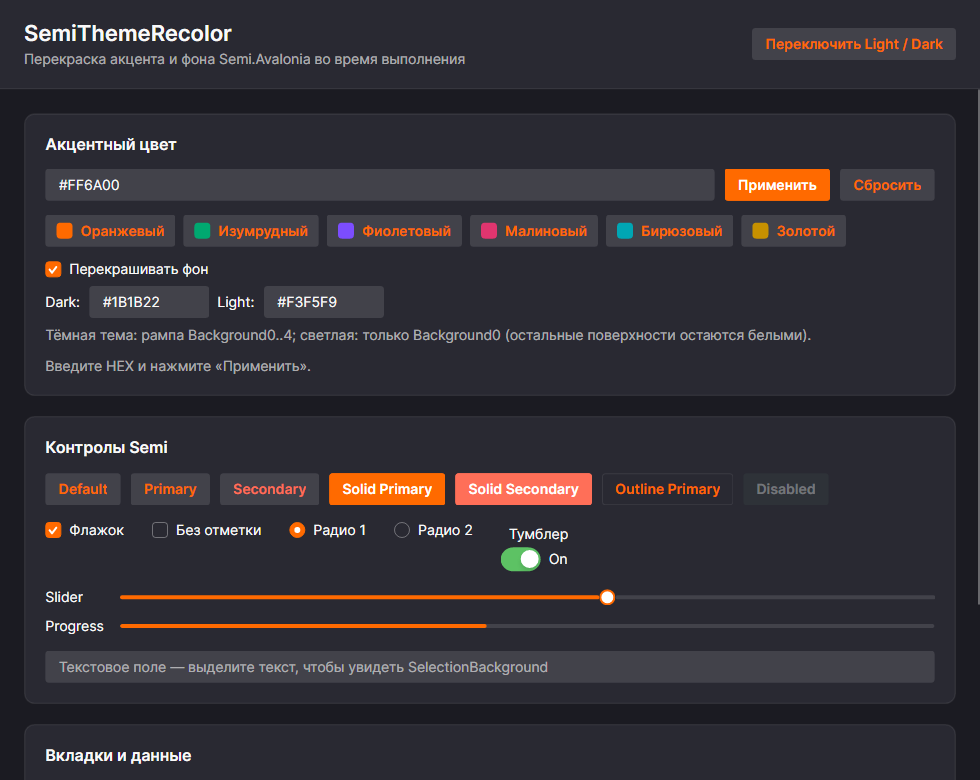
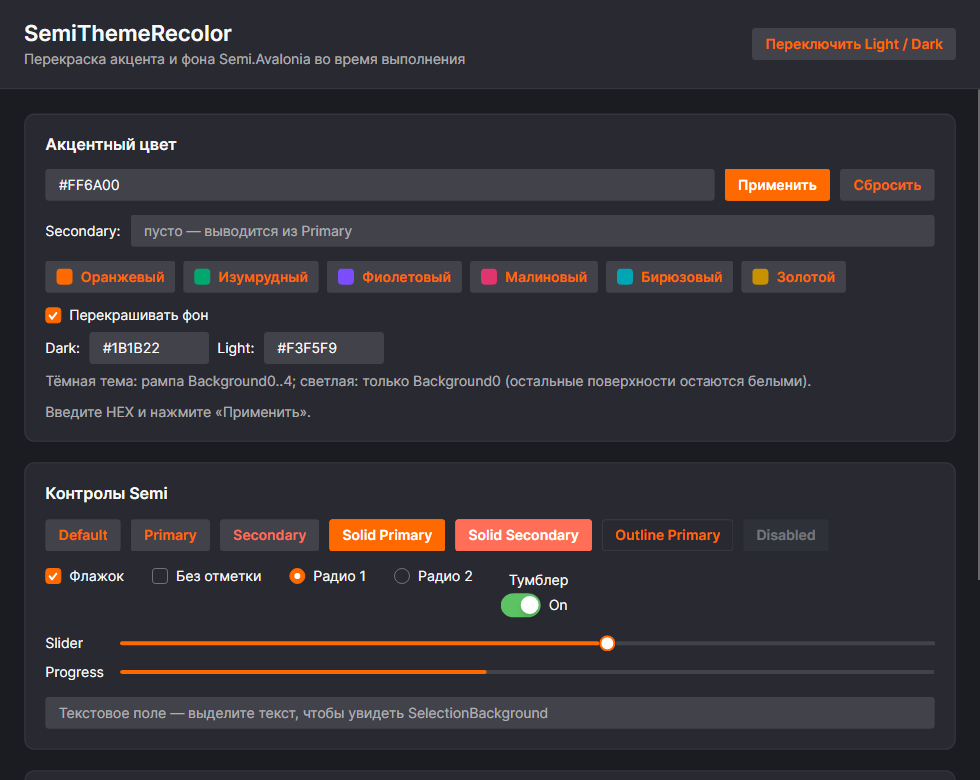
feat: independent SecondaryColor and XamlMcp-instrumented demo

Changed region(s): [[0.0306, 0.2769, 0.9796, 0.9846], [0.7653, 0.6769, 0.8265, 0.7077], [0.7653, 0.6154, 0.8265, 0.6462]]

diff --git a/src/Semi.Avalonia.Recolor/PaletteMapBuilder.cs b/src/Semi.Avalonia.Recolor/PaletteMapBuilder.cs
@@ -50,24 +50,42 @@ internal static class PaletteMapBuilder
         var dark = new Dictionary<Color, Color>();
         var light = new Dictionary<Color, Color>();
 
-        if (darkAccent is { } da)
+        // Secondary (LightBlue) can be set independently of the primary accent.
+        var darkSecondary = secondaryDark
+                            ?? (darkAccent is { } da
+                                ? RampBuilder.DeriveCompanion(da, SemiPalette.DarkBlue[5],
+                                    SemiPalette.DarkLightBlue[5])
+                                : (Color?)null);
+        var lightSecondary = secondaryLight
+                             ?? (lightAccent is { } la
+                                 ? RampBuilder.DeriveCompanion(la, SemiPalette.LightBlue[5],
+                                     SemiPalette.LightLightBlue[5])
+                                 : (Color?)null);
+
+        if (darkAccent is { } darkAccentValue)
         {
-            var secondary = secondaryDark
-                            ?? RampBuilder.DeriveCompanion(da, SemiPalette.DarkBlue[5], SemiPalette.DarkLightBlue[5]);
-            AddRamp(dark, SemiPalette.DarkBlue, RampBuilder.Build(SemiPalette.DarkBlue, da));
-            AddRamp(dark, SemiPalette.DarkLightBlue, RampBuilder.Build(SemiPalette.DarkLightBlue, secondary));
+            AddRamp(dark, SemiPalette.DarkBlue, RampBuilder.Build(SemiPalette.DarkBlue, darkAccentValue));
             dark[SemiPalette.SelectionBlue] =
-                RampBuilder.RecolorHue(SemiPalette.SelectionBlue, Oklch.FromColor(da).H);
+                RampBuilder.RecolorHue(SemiPalette.SelectionBlue, Oklch.FromColor(darkAccentValue).H);
         }
 
-        if (lightAccent is { } la)
+        if (darkSecondary is { } darkSecondaryValue)
         {
-            var secondary = secondaryLight
-                            ?? RampBuilder.DeriveCompanion(la, SemiPalette.LightBlue[5], SemiPalette.LightLightBlue[5]);
-            AddRamp(light, SemiPalette.LightBlue, RampBuilder.Build(SemiPalette.LightBlue, la));
-            AddRamp(light, SemiPalette.LightLightBlue, RampBuilder.Build(SemiPalette.LightLightBlue, secondary));
+            AddRamp(dark, SemiPalette.DarkLightBlue,
+                RampBuilder.Build(SemiPalette.DarkLightBlue, darkSecondaryValue));
+        }
+
+        if (lightAccent is { } lightAccentValue)
+        {
+            AddRamp(light, SemiPalette.LightBlue, RampBuilder.Build(SemiPalette.LightBlue, lightAccentValue));
             light[SemiPalette.SelectionBlue] =
-                RampBuilder.RecolorHue(SemiPalette.SelectionBlue, Oklch.FromColor(la).H);
+                RampBuilder.RecolorHue(SemiPalette.SelectionBlue, Oklch.FromColor(lightAccentValue).H);
+        }
+
+        if (lightSecondary is { } lightSecondaryValue)
+        {
+            AddRamp(light, SemiPalette.LightLightBlue,
+                RampBuilder.Build(SemiPalette.LightLightBlue, lightSecondaryValue));
         }
 
         return new RecolorMaps(

diff --git a/demo/SemiThemeRecolor.Demo/ViewModels/MainWindowViewModel.cs b/demo/SemiThemeRecolor.Demo/ViewModels/MainWindowViewModel.cs
@@ -16,6 +16,9 @@ public partial class MainWindowViewModel : ObservableObject
     private string _accentHex = "#FF6A00";
 
     [ObservableProperty]
+    private string _secondaryHex = "";
+
+    [ObservableProperty]
     private string _backgroundDarkHex = "#1B1B22";
 
     [ObservableProperty]
@@ -68,6 +71,20 @@ public partial class MainWindowViewModel : ObservableObject
         }
 
         recolor.PrimaryColor = accent;
+
+        if (string.IsNullOrWhiteSpace(SecondaryHex))
+        {
+            recolor.SecondaryColor = null;
+        }
+        else if (Color.TryParse(SecondaryHex, out var secondary))
+        {
+            recolor.SecondaryColor = secondary;
+        }
+        else
+        {
+            Status = $"Не удалось разобрать цвет Secondary «{SecondaryHex}».";
+            return;
+        }
 
         if (RecolorBackground)
         {
@@ -126,6 +143,7 @@ public partial class MainWindowViewModel : ObservableObject
         recolor.Reset();
 
         AccentHex = "#0064FA";
+        SecondaryHex = "";
         BackgroundDarkHex = "#16161A";
         BackgroundLightHex = "#FFFFFF";
         Status = "Исходная палитра Semi восстановлена.";

diff --git a/demo/SemiThemeRecolor.Demo/App.axaml.cs b/demo/SemiThemeRecolor.Demo/App.axaml.cs
@@ -28,6 +28,16 @@ public partial class App : Application
     {
         Recolor = Styles.OfType<RecolorStyle>().FirstOrDefault();
 
+        // Dev-only: exercise the "secondary accent without a primary" path.
+        if (Recolor is { } recolor
+            && Environment.GetEnvironmentVariable("SEMI_RECOLOR_SECONDARY_ONLY") is { Length: > 0 } secondaryHex
+            && Color.TryParse(secondaryHex, out var secondaryOnly))
+        {
+            recolor.PrimaryColor = null;
+            recolor.SecondaryColor = secondaryOnly;
+            recolor.Reapply();
+        }
+
         var requestedVariant = Environment.GetEnvironmentVariable("SEMI_RECOLOR_VARIANT");
         if (string.Equals(requestedVariant, "Light", StringComparison.OrdinalIgnoreCase))
         {

diff --git a/src/Semi.Avalonia.Recolor/SemiThemeRecolor.cs b/src/Semi.Avalonia.Recolor/SemiThemeRecolor.cs
@@ -156,10 +156,10 @@ public class SemiThemeRecolor : Styles
                                   ? RampBuilder.Adapt(p, SemiPalette.DarkBlue[5], SemiPalette.LightBlue[5])
                                   : (Color?)null);
 
-        var secondaryDark = secondary is { } sd && darkTarget is not null
+        var secondaryDark = secondary is { } sd
             ? sd
             : (Color?)null;
-        var secondaryLight = secondary is { } sl && lightTarget is not null
+        var secondaryLight = secondary is { } sl
             ? RampBuilder.Adapt(sl, SemiPalette.DarkBlue[5], SemiPalette.LightBlue[5])
             : (Color?)null;
 

diff --git a/demo/SemiThemeRecolor.Demo/Program.cs b/demo/SemiThemeRecolor.Demo/Program.cs
@@ -1,6 +1,7 @@
 using System;
 
 using Avalonia;
+using XamlMcp.Avalonia;
 
 namespace SemiThemeRecolor.Demo;
 
@@ -11,6 +12,7 @@ internal static class Program
         .StartWithClassicDesktopLifetime(args);
 
     public static AppBuilder BuildAvaloniaApp() => AppBuilder.Configure<App>()
+        .AttachXamlMcp()
         .UsePlatformDetect()
         .WithInterFont()
         .LogToTrace();

diff --git a/README.md b/README.md
@@ -43,9 +43,20 @@ demo/SemiThemeRecolor.Demo/  демо-приложение (контролы, Da
 dotnet run --project demo/SemiThemeRecolor.Demo/SemiThemeRecolor.Demo.csproj
 ```
 
-В демо можно ввести HEX акцента, выбрать пресет, задать фон отдельно для светлой и тёмной темы,
-переключить Light/Dark. Сохранённые скриншоты: `docs/demo-dark.png`, `docs/demo-light.png`
+В демо можно ввести HEX акцента, задать Secondary (или оставить пустым — он выводится из Primary),
+выбрать пресет, задать фон отдельно для светлой и тёмной темы, переключить Light/Dark.
+Сохранённые скриншоты: `docs/demo-dark.png`, `docs/demo-light.png`
 (генерируются режимом `SEMI_RECOLOR_RENDER=<path>`).
+
+Демо также подключено к [XamlMcp](https://www.rahultr.dev/xamlmcp/): инспекция живого дерева,
+ресурсов и скриншоты. Запуск с агентом:
+
+```powershell
+$env:XAML_MCP="1"; dotnet run --project demo/SemiThemeRecolor.Demo/SemiThemeRecolor.Demo.csproj
+```
+
+Диагностические переменные: `SEMI_RECOLOR_DUMP=1` (дамп ресурсов и выход),
+`SEMI_RECOLOR_VARIANT=Light|Dark`, `SEMI_RECOLOR_SECONDARY_ONLY=<hex>` (проверка Secondary без Primary).
 
 ## Сборка пакета
 
